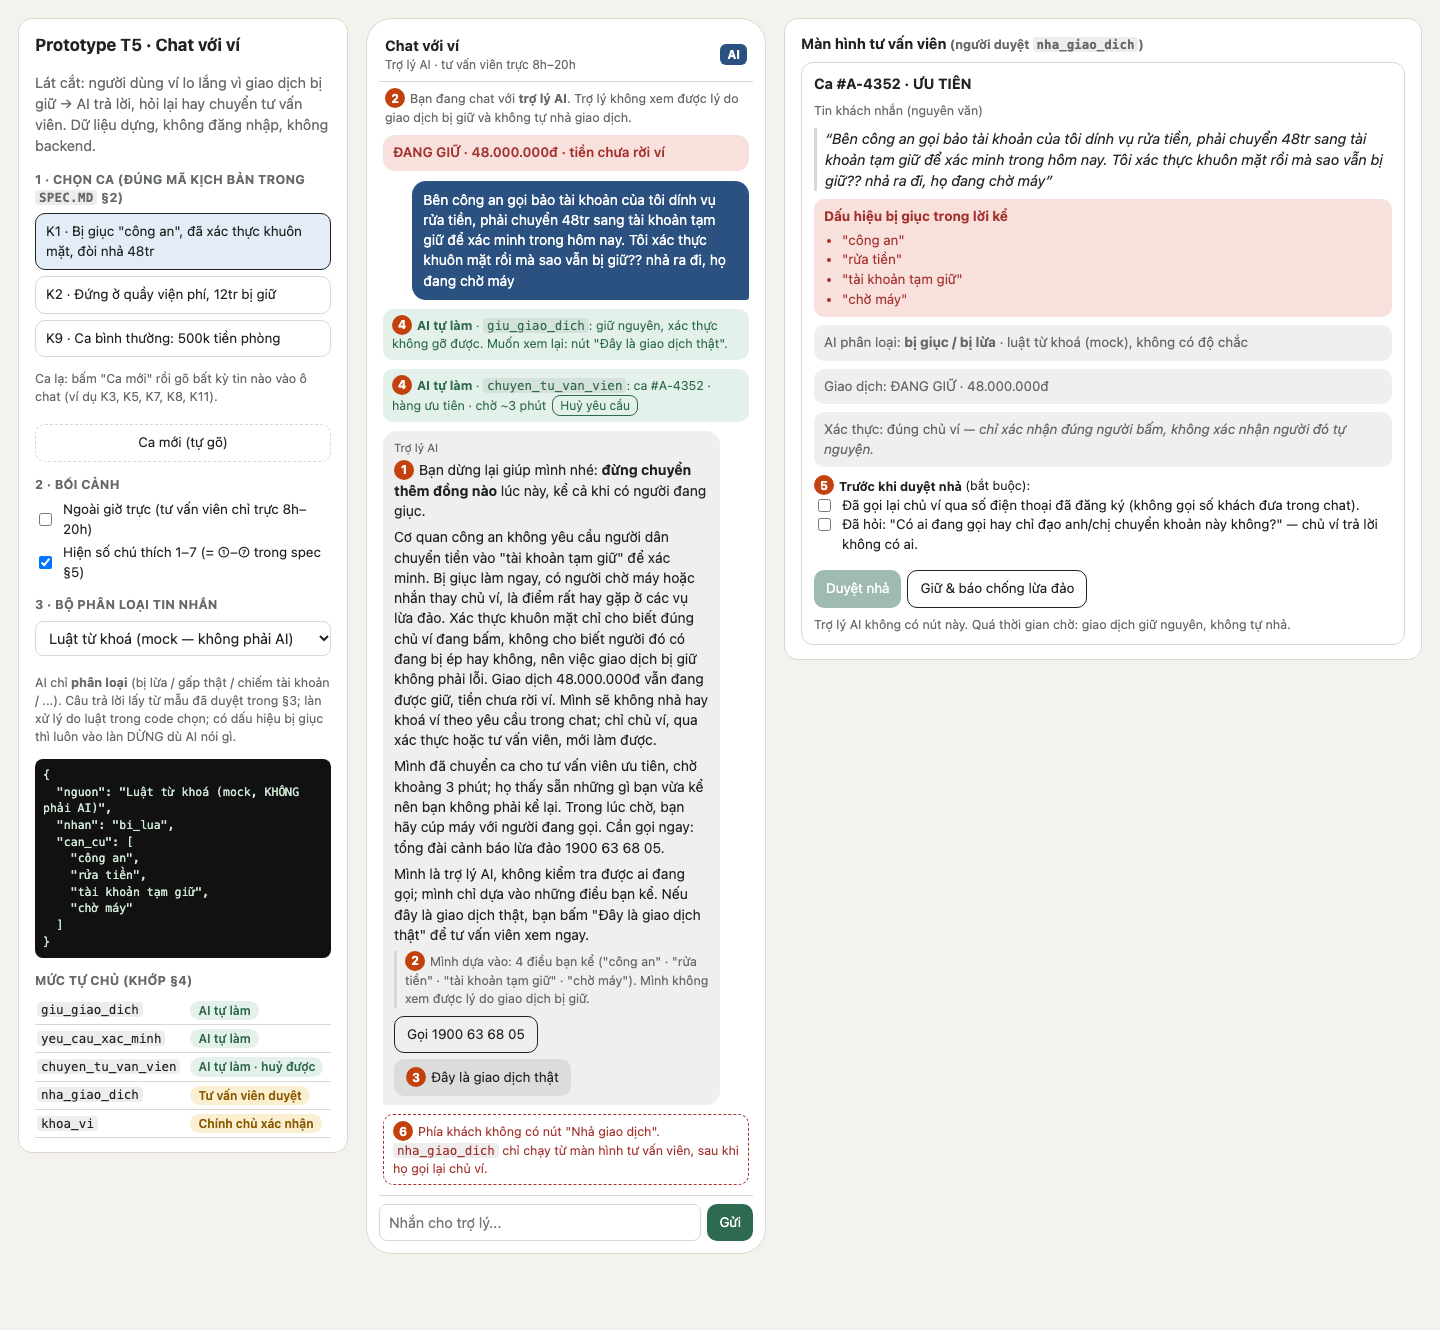
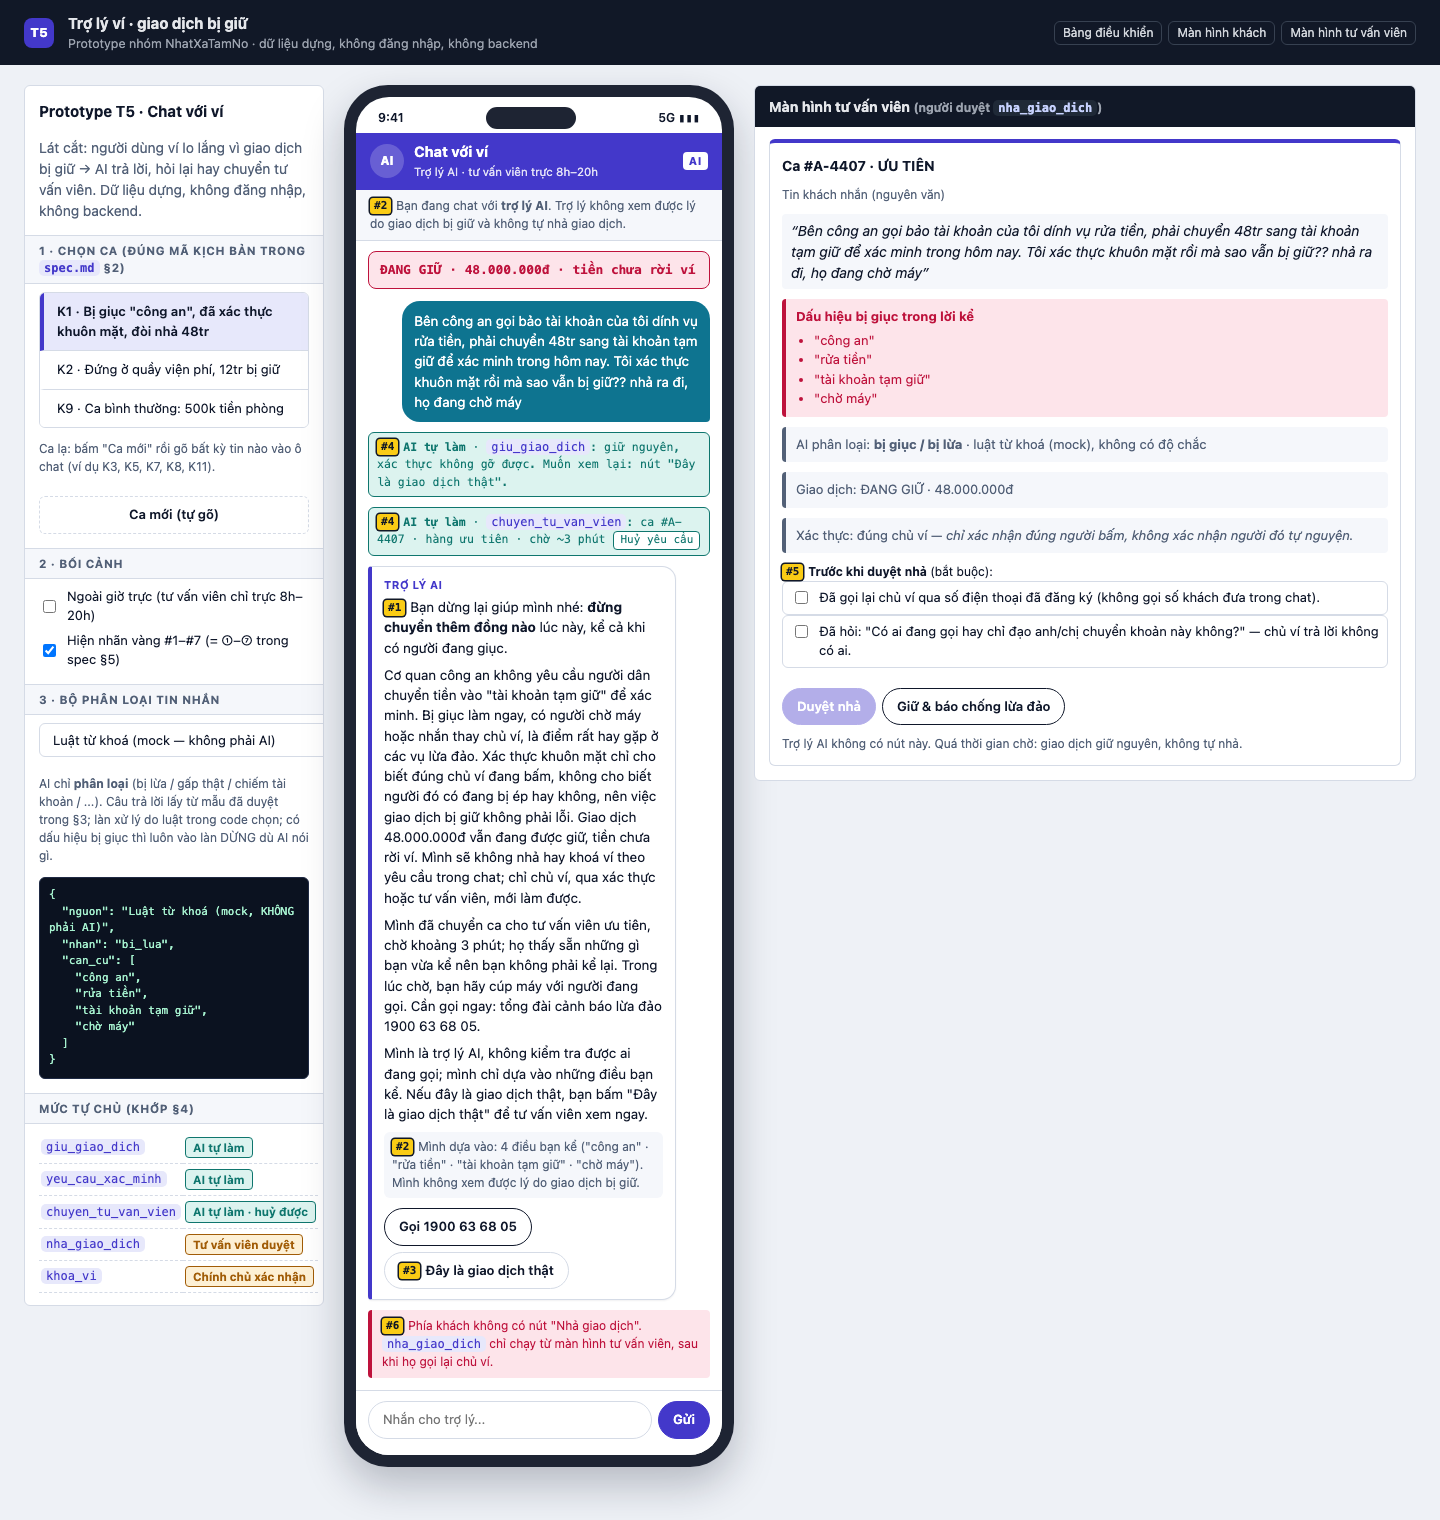
style(prototype): giao diện riêng, không theo prototype mẫu; chụp lại ảnh K1, K2

diff --git a/prototype/style.css b/prototype/style.css
@@ -1,73 +1,112 @@
+/* Prototype T5 · NhatXaTamNo — giao diện riêng của nhóm: "bàn điều phối" xanh than + thiết bị khung tối */
 :root{
-  --bg:#f4f2ed; --card:#fff; --ink:#1f2421; --mut:#666b68; --line:#dcd8cf;
-  --g:#2d6a4f; --gb:#e4f1ea; --a:#8a5a00; --ab:#fbefd2; --r:#a3302b; --rb:#f8e1dd; --b:#2b5180; --bb:#e3ecf7;
-  --badge:#c2410c;
+  --page:#eef1f6; --surface:#ffffff; --sunken:#f5f7fb; --text:#0f172a; --soft:#526077; --rule:#d5dbe6;
+  --brand:#4338ca; --brand-ink:#ffffff; --brand-soft:#e7e8fb;
+  --safe:#0f766e; --safe-soft:#dcf3ef; --warn:#a15c07; --warn-soft:#fdf0d5; --risk:#be123c; --risk-soft:#fde4ea;
+  --me:#0e7490; --bezel:#1e2433; --top:#111827; --top-ink:#e5e7eb;
+  --tag:#facc15; --tag-ink:#111827;
 }
 @media (prefers-color-scheme: dark){
-  :root{ --bg:#16181a; --card:#212427; --ink:#e8e6e1; --mut:#a2a6a3; --line:#3a3e42;
-    --g:#7cc9a1; --gb:#1f3a2e; --a:#f0c060; --ab:#3d3320; --r:#f19a90; --rb:#432523; --b:#9cc0ef; --bb:#22324a; }
+  :root{ --page:#0b1020; --surface:#141a2b; --sunken:#1a2136; --text:#e6e9f2; --soft:#9aa5bd; --rule:#2a3350;
+    --brand:#8b93ff; --brand-ink:#0b1020; --brand-soft:#232a52;
+    --safe:#5fd4c4; --safe-soft:#123532; --warn:#f5c26b; --warn-soft:#3a2e15; --risk:#ff8aa4; --risk-soft:#3d1824;
+    --me:#22a3c4; --bezel:#05070d; --top:#05070d; }
 }
 *{box-sizing:border-box}
-body{margin:0;background:var(--bg);color:var(--ink);font-family:"Be Vietnam Pro","Segoe UI",system-ui,Arial,sans-serif;font-size:14.5px;line-height:1.45}
-code{font-size:12.5px;background:rgba(127,127,127,.14);padding:0 4px;border-radius:4px}
+body{margin:0;background:var(--page);color:var(--text);font-family:-apple-system,BlinkMacSystemFont,"SF Pro Text","Segoe UI",Roboto,"Helvetica Neue",Arial,sans-serif;font-size:14px;line-height:1.5}
+code{font-family:ui-monospace,"SF Mono",Menlo,Consolas,monospace;font-size:12px;color:var(--brand);background:var(--brand-soft);padding:1px 5px;border-radius:5px}
 .hidden{display:none!important}
-.mut{color:var(--mut)} .small{font-size:12.5px}
-.app{display:grid;grid-template-columns:330px 400px minmax(320px,1fr);gap:18px;padding:18px;max-width:1440px;margin:0 auto;align-items:start}
+.mut{color:var(--soft)} .small{font-size:12px}
+
+/* thanh trên cùng */
+.topbar{background:var(--top);color:var(--top-ink);display:flex;align-items:center;gap:14px;padding:12px 24px;flex-wrap:wrap}
+.topbar .logo{width:30px;height:30px;border-radius:8px;background:var(--brand);color:#fff;display:grid;place-items:center;font-weight:800;font-size:13px}
+.topbar .t1{font-weight:700;font-size:15px}
+.topbar .t2{font-size:12.5px;color:#9ca3af}
+.topbar .legend{margin-left:auto;display:flex;gap:6px;flex-wrap:wrap;font-size:12px}
+.topbar .legend span{border:1px solid #374151;border-radius:6px;padding:2px 8px;color:#d1d5db}
+
+.app{display:grid;grid-template-columns:300px 390px minmax(320px,1fr);gap:20px;padding:20px 24px;max-width:1440px;margin:0 auto;align-items:start}
 @media (max-width:1100px){.app{grid-template-columns:1fr;padding:12px 16px}}
-.panel{background:var(--card);border:1px solid var(--line);border-radius:14px;padding:14px 16px}
-h1{font-size:17px;margin:0 0 6px}
-.sec{font-weight:700;font-size:12.5px;letter-spacing:.02em;text-transform:uppercase;color:var(--mut);margin:14px 0 6px}
-.presets{display:flex;flex-direction:column;gap:6px}
-.preset{text-align:left;border:1.5px solid var(--line);background:var(--card);color:var(--ink);border-radius:10px;padding:8px 10px;font:inherit;font-size:13.5px;cursor:pointer}
-.preset.on{border-color:var(--ink);background:var(--bb)}
-.row{display:flex;gap:8px;align-items:center;font-size:13.5px;margin:4px 0}
-select,input[type=text],input[type=password]{width:100%;font:inherit;padding:7px 9px;border:1px solid var(--line);border-radius:8px;background:var(--card);color:var(--ink);margin-bottom:6px}
-.log{background:#111;color:#cfe9d6;font-size:11.5px;border-radius:8px;padding:8px;white-space:pre-wrap;word-break:break-word;max-height:220px;overflow:auto;margin:6px 0 0}
-.matrix{width:100%;border-collapse:collapse;font-size:12.5px}.matrix td{padding:4px 2px;border-bottom:1px solid var(--line)}
-.pill{display:inline-block;border-radius:999px;padding:1px 8px;font-size:12px;font-weight:600;white-space:nowrap}
-.pill.auto{background:var(--gb);color:var(--g)} .pill.ask{background:var(--ab);color:var(--a)} .pill.no{background:var(--rb);color:var(--r)}
 
-.btn{border:0;border-radius:10px;padding:8px 12px;font:inherit;font-size:13.5px;cursor:pointer;background:rgba(127,127,127,.16);color:var(--ink)}
-.btn.pri{background:var(--g);color:#fff} .btn.out{background:transparent;border:1.5px solid var(--ink)} .btn.danger{background:var(--r);color:#fff} .btn.ghost{background:transparent;border:1.5px dashed var(--line);width:100%;margin-top:6px}
-.btn:disabled{opacity:.45;cursor:not-allowed}
-.btns{display:flex;flex-wrap:wrap;gap:6px;margin-top:8px}
+/* bảng điều khiển */
+.panel{background:var(--surface);border:1px solid var(--rule);border-radius:6px;padding:0 0 12px;overflow:hidden}
+.panel > *:not(.sec):not(.staff-head){margin-left:14px;margin-right:14px}
+h1{font-size:15px;margin:14px 14px 4px}
+.sec{background:var(--sunken);border-top:1px solid var(--rule);border-bottom:1px solid var(--rule);font-weight:700;font-size:11.5px;letter-spacing:.06em;text-transform:uppercase;color:var(--soft);margin:14px 0 8px;padding:6px 14px}
+.presets{display:flex;flex-direction:column;gap:0;border:1px solid var(--rule);border-radius:6px;overflow:hidden}
+.preset{text-align:left;border:0;border-bottom:1px solid var(--rule);background:var(--surface);color:var(--text);padding:9px 11px 9px 13px;font:inherit;font-size:13px;cursor:pointer;border-left:4px solid transparent}
+.preset:last-child{border-bottom:0}
+.preset:hover{background:var(--sunken)}
+.preset.on{border-left-color:var(--brand);background:var(--brand-soft);font-weight:600}
+.row{display:flex;gap:8px;align-items:center;font-size:13px;margin:5px 0}
+select,input[type=text],input[type=password]{width:100%;font:inherit;font-size:13px;padding:7px 9px;border:1px solid var(--rule);border-radius:6px;background:var(--surface);color:var(--text);margin-bottom:6px}
+.log{background:#0b1220;color:#a7f3d0;font-family:ui-monospace,Menlo,Consolas,monospace;font-size:11px;border-radius:6px;padding:9px;white-space:pre-wrap;word-break:break-word;max-height:220px;overflow:auto;margin-top:6px;border:1px solid #1f2a44}
+.matrix{border-collapse:collapse;font-size:12.5px;width:calc(100% - 28px)}
+.matrix td{padding:5px 2px;border-bottom:1px dashed var(--rule)}
+.pill{display:inline-block;border-radius:4px;padding:1px 7px;font-size:11.5px;font-weight:700;white-space:nowrap;border:1px solid currentColor}
+.pill.auto{color:var(--safe);background:var(--safe-soft)} .pill.ask{color:var(--warn);background:var(--warn-soft)} .pill.no{color:var(--risk);background:var(--risk-soft)}
 
-.phone{background:var(--card);border:1px solid var(--line);border-radius:26px;padding:12px;display:flex;flex-direction:column;min-height:760px}
-.ph-head{display:flex;justify-content:space-between;align-items:center;padding:4px 6px 8px;border-bottom:1px solid var(--line)}
-.ph-title{font-weight:700}.ph-sub{font-size:12px;color:var(--mut)}
-.ai-tag{background:var(--b);color:#fff;border-radius:6px;padding:2px 7px;font-size:12px;font-weight:700}
-.disclose{font-size:12.5px;color:var(--mut);padding:6px 6px 0}
-.tx{margin:8px 4px 0;border-radius:12px;padding:8px 10px;font-size:13.5px;font-weight:600;background:var(--ab);color:var(--a)}
-.tx.ok{background:var(--gb);color:var(--g)} .tx.held{background:var(--rb);color:var(--r)}
-.chat{flex:1;display:flex;flex-direction:column;gap:9px;padding:10px 4px;overflow:auto}
-.m{max-width:92%;padding:9px 11px;border-radius:14px;font-size:14px}
-.m.user{align-self:flex-end;background:var(--b);color:#fff;border-radius:14px 14px 3px 14px}
-.m.ai{align-self:flex-start;background:rgba(127,127,127,.12);border-radius:14px 14px 14px 3px}
-.m.ai p{margin:0 0 6px}.m.ai p:last-child{margin-bottom:0}
-.m.sys{align-self:center;background:transparent;border:1px dashed var(--line);color:var(--mut);font-size:12.5px;text-align:center}
-.who{font-size:11.5px;color:var(--mut);margin-bottom:3px}
-.ev{font-size:12.5px;color:var(--mut);border-left:3px solid var(--line);padding-left:8px;margin-top:6px}
-.chip{align-self:flex-start;font-size:12.5px;border-radius:10px;padding:6px 9px;background:var(--gb);color:var(--g);display:block}
-.chip button{margin-left:6px}
-.chip.warn{background:var(--ab);color:var(--a)} .chip.off{background:rgba(127,127,127,.14);color:var(--mut);text-decoration:line-through}
-.chip button{font:inherit;font-size:12px;border:1px solid currentColor;background:transparent;color:inherit;border-radius:8px;padding:1px 7px;cursor:pointer}
-.note{align-self:stretch;font-size:12.5px;color:var(--r);border:1px dashed var(--r);border-radius:10px;padding:6px 9px}
-.qr{display:flex;flex-wrap:wrap;gap:6px;margin-top:8px}.qr button{font:inherit;font-size:12.5px;border:1px solid var(--line);border-radius:999px;padding:3px 10px;background:var(--card);color:var(--ink);cursor:pointer}
-.composer{display:flex;gap:6px;border-top:1px solid var(--line);padding-top:8px}.composer input{margin:0}
+/* nút */
+.btn{border:1px solid var(--rule);border-radius:999px;padding:8px 14px;font:inherit;font-size:13px;font-weight:600;cursor:pointer;background:var(--surface);color:var(--text)}
+.btn.pri{background:var(--brand);border-color:var(--brand);color:var(--brand-ink)}
+.btn.out{border-color:var(--text)}
+.btn.danger{background:var(--risk);border-color:var(--risk);color:#fff}
+.btn.ghost{border-style:dashed;width:calc(100% - 28px);margin-top:8px;border-radius:6px;background:transparent}
+.btn:disabled{opacity:.4;cursor:not-allowed}
+.btns{display:flex;flex-wrap:wrap;gap:6px;margin-top:10px}
 
-.staff-head{font-weight:700;margin-bottom:8px}
-.case{border:1px solid var(--line);border-radius:12px;padding:10px 12px;display:flex;flex-direction:column;gap:8px}
-.case h3{margin:0;font-size:14.5px}
-.block{border-radius:10px;padding:8px 10px;font-size:13.5px}
-.block.sig{background:var(--rb);color:var(--r)} .block.nosig{background:var(--gb);color:var(--g)} .block.neutral{background:rgba(127,127,127,.12);color:var(--mut)}
+/* thiết bị */
+.phone{background:var(--bezel);border-radius:44px;padding:12px;min-height:780px;display:flex;flex-direction:column;box-shadow:0 18px 40px rgba(15,23,42,.25)}
+.screen{flex:1;background:var(--surface);border-radius:33px;display:flex;flex-direction:column;overflow:hidden}
+.status{display:flex;justify-content:space-between;align-items:center;padding:10px 22px 4px;font-size:12px;font-weight:600}
+.status .notch{width:90px;height:22px;border-radius:12px;background:var(--bezel)}
+.ph-head{display:flex;gap:10px;align-items:center;padding:8px 14px 10px;background:var(--brand);color:#fff}
+.ph-head .av{width:34px;height:34px;border-radius:50%;background:rgba(255,255,255,.2);display:grid;place-items:center;font-weight:800;font-size:12px}
+.ph-title{font-weight:700;font-size:14.5px}.ph-sub{font-size:11.5px;opacity:.85}
+.ai-tag{margin-left:auto;background:#fff;color:var(--brand);border-radius:4px;padding:1px 6px;font-size:11px;font-weight:800;letter-spacing:.05em}
+.disclose{font-size:12px;color:var(--soft);background:var(--sunken);padding:7px 14px;border-bottom:1px solid var(--rule)}
+.tx{margin:10px 12px 0;border-radius:8px;padding:8px 11px;font-size:13px;font-weight:700;border:1px solid currentColor;background:var(--warn-soft);color:var(--warn);font-family:ui-monospace,Menlo,Consolas,monospace;letter-spacing:-.01em}
+.tx.ok{background:var(--safe-soft);color:var(--safe)} .tx.held{background:var(--risk-soft);color:var(--risk)}
+.chat{flex:1;display:flex;flex-direction:column;gap:10px;padding:12px;overflow:auto;background:var(--surface)}
+.m{max-width:90%;padding:10px 12px;font-size:13.5px}
+.m.user{align-self:flex-end;background:var(--me);color:#fff;border-radius:18px 18px 4px 18px}
+.m.ai{align-self:flex-start;background:var(--surface);border:1px solid var(--rule);border-left:4px solid var(--brand);border-radius:4px 14px 14px 4px;box-shadow:0 1px 2px rgba(15,23,42,.06)}
+.m.ai p{margin:0 0 7px}.m.ai p:last-child{margin-bottom:0}
+.m.sys{align-self:center;max-width:95%;background:var(--sunken);color:var(--soft);font-size:12px;text-align:center;border-radius:999px;padding:5px 12px}
+.who{font-size:11px;font-weight:700;letter-spacing:.04em;text-transform:uppercase;color:var(--brand);margin-bottom:4px}
+.ev{font-size:12px;color:var(--soft);background:var(--sunken);border-radius:6px;padding:6px 8px;margin-top:8px}
+.chip{align-self:flex-start;display:block;font-family:ui-monospace,Menlo,Consolas,monospace;font-size:11.5px;border:1px solid var(--safe);color:var(--safe);background:var(--safe-soft);border-radius:6px;padding:5px 8px}
+.chip.warn{border-color:var(--warn);color:var(--warn);background:var(--warn-soft)}
+.chip.off{border-color:var(--rule);color:var(--soft);background:transparent;text-decoration:line-through}
+.chip button{margin-left:8px;font:inherit;font-size:11px;border:1px solid currentColor;background:var(--surface);color:inherit;border-radius:4px;padding:0 6px;cursor:pointer}
+.note{align-self:stretch;font-size:12px;color:var(--risk);background:var(--risk-soft);border-left:4px solid var(--risk);border-radius:4px;padding:7px 10px}
+.qr{display:flex;flex-wrap:wrap;gap:6px;margin-top:10px}
+.qr button{font:inherit;font-size:12.5px;border:1px solid var(--brand);color:var(--brand);border-radius:6px;padding:3px 10px;background:var(--surface);cursor:pointer}
+.composer{display:flex;gap:6px;border-top:1px solid var(--rule);padding:10px 12px 16px;background:var(--surface)}
+.composer input{margin:0;border-radius:999px;padding:8px 14px}
+
+/* màn hình tư vấn viên */
+.staff{padding-bottom:14px}
+.staff-head{background:var(--top);color:var(--top-ink);font-weight:700;padding:10px 14px;margin-bottom:12px}
+.staff-head .mut{color:#9ca3af}
+.staff-head code{background:#1f2937;color:#c7d2fe}
+.case{border:1px solid var(--rule);border-top:4px solid var(--brand);border-radius:6px;padding:12px;display:flex;flex-direction:column;gap:10px;background:var(--surface)}
+.case h3{margin:0;font-size:14px}
+.block{border-radius:4px;padding:8px 10px;font-size:13px;border-left:4px solid currentColor}
+.block.sig{background:var(--risk-soft);color:var(--risk)} .block.nosig{background:var(--safe-soft);color:var(--safe)} .block.neutral{background:var(--sunken);color:var(--soft)}
 .block ul{margin:4px 0 0;padding-left:18px}
-.quote{font-style:italic;border-left:3px solid var(--line);padding-left:8px}
-.check{display:flex;gap:8px;align-items:flex-start;font-size:13.5px}
-.confirm{border:2px solid var(--r);border-radius:10px;padding:8px 10px;background:var(--rb);color:var(--r);font-size:13.5px}
+.quote{font-style:italic;background:var(--sunken);border-radius:4px;padding:6px 9px}
+.check{display:flex;gap:8px;align-items:flex-start;font-size:13px;padding:6px 8px;border:1px solid var(--rule);border-radius:6px}
+.confirm{border:1px solid var(--risk);border-radius:6px;padding:10px;background:var(--risk-soft);color:var(--risk);font-size:13px}
 
-.modal{position:fixed;inset:0;background:rgba(0,0,0,.45);display:flex;align-items:center;justify-content:center;padding:16px}
-.sheet{background:var(--card);color:var(--ink);border-radius:16px;padding:16px;max-width:380px;width:100%}
+/* màn hình xác thực / khoá ví */
+.modal{position:fixed;inset:0;background:rgba(2,6,23,.55);display:flex;align-items:flex-end;justify-content:center;padding:16px}
+.sheet{background:var(--surface);color:var(--text);border-radius:18px 18px 8px 8px;padding:18px;max-width:390px;width:100%;border-top:5px solid var(--brand)}
 .sheet h3{margin:0 0 6px}
 
-.n{display:inline-flex;align-items:center;justify-content:center;min-width:20px;height:20px;border-radius:50%;background:var(--badge);color:#fff;font-size:12px;font-weight:700;margin-right:5px;vertical-align:1px;padding:0 3px;flex:none}
+/* số chú thích: nhãn vàng vuông, viết "#1" */
+.n{display:inline-block;background:var(--tag);color:var(--tag-ink);font-family:ui-monospace,Menlo,Consolas,monospace;font-size:11px;font-weight:800;line-height:16px;border-radius:3px;padding:0 4px;margin-right:5px;vertical-align:1px;box-shadow:0 0 0 1.5px var(--tag-ink)}
+.n::before{content:"#"}
 body.hide-n .n{display:none}
+.sec code{text-transform:none;letter-spacing:0}

diff --git a/prototype/index.html b/prototype/index.html
@@ -7,6 +7,11 @@
   <link rel="stylesheet" href="style.css">
 </head>
 <body>
+<header class="topbar">
+  <div class="logo">T5</div>
+  <div><div class="t1">Trợ lý ví · giao dịch bị giữ</div><div class="t2">Prototype nhóm NhatXaTamNo · dữ liệu dựng, không đăng nhập, không backend</div></div>
+  <div class="legend"><span>Bảng điều khiển</span><span>Màn hình khách</span><span>Màn hình tư vấn viên</span></div>
+</header>
 <div class="app">
 
   <!-- CỘT TRÁI: bảng điều khiển cho người chấm -->
@@ -25,7 +30,7 @@
 
     <div class="sec">2 · Bối cảnh</div>
     <label class="row"><input type="checkbox" id="offHours"> Ngoài giờ trực (tư vấn viên chỉ trực 8h–20h)</label>
-    <label class="row"><input type="checkbox" id="showNums" checked> Hiện số chú thích 1–7 (= ①–⑦ trong spec §5)</label>
+    <label class="row"><input type="checkbox" id="showNums" checked> Hiện nhãn vàng #1–#7 (= ①–⑦ trong spec §5)</label>
 
     <div class="sec">3 · Bộ phân loại tin nhắn</div>
     <select id="engine">
@@ -53,7 +58,10 @@
 
   <!-- CỘT GIỮA: màn hình khách -->
   <main class="phone">
+   <div class="screen">
+    <div class="status"><span>9:41</span><span class="notch"></span><span>5G ▮▮▮</span></div>
     <header class="ph-head">
+      <div class="av">AI</div>
       <div>
         <div class="ph-title">Chat với ví</div>
         <div class="ph-sub">Trợ lý AI · tư vấn viên trực 8h–20h</div>
@@ -67,6 +75,7 @@
       <input id="msg" type="text" autocomplete="off" placeholder="Nhắn cho trợ lý...">
       <button class="btn pri" type="submit">Gửi</button>
     </form>
+   </div>
   </main>
 
   <!-- CỘT PHẢI: màn hình tư vấn viên -->

diff --git a/prototype/README.md b/prototype/README.md
@@ -22,7 +22,7 @@
 ## Phần mock
 Giao dịch, màn hình xác thực, hệ thống kiểm tra giao dịch của ví, hàng đợi và màn hình tư vấn viên, cuộc gọi tổng đài. Chưa dựng lời nhắc khi khách im lặng 60 giây / 2 phút.
 
-## Số chú thích (badge cam 1–7 = ①–⑦ trong spec §5.2)
+## Số chú thích (nhãn vàng #1–#7 = ①–⑦ trong spec §5.2)
 | Số | Chỗ | Ý |
 |---|---|---|
 | 1 | dòng đầu bong bóng AI | G10: không chắc thì thu hẹp (bảo dừng / một câu rào) |
